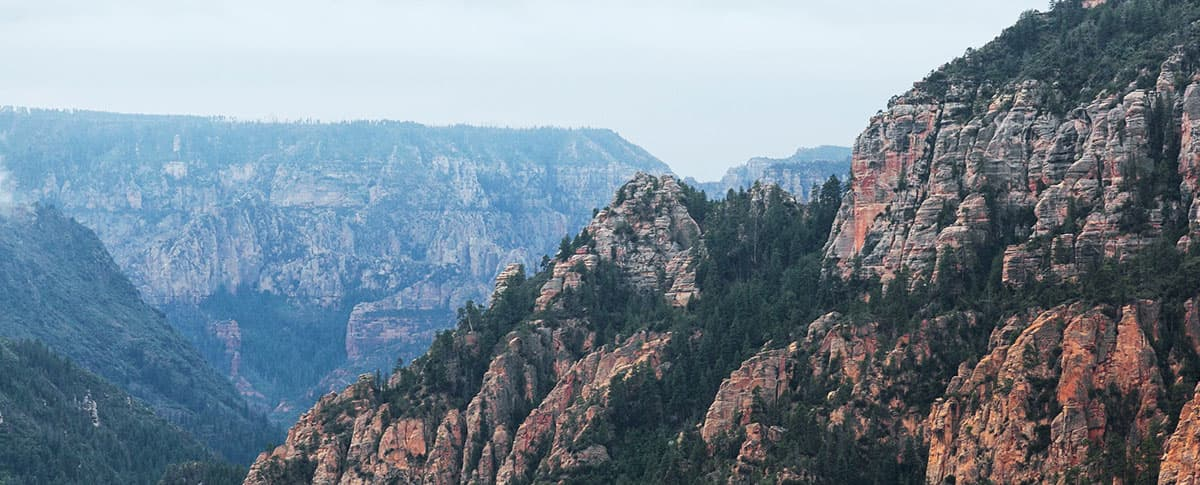
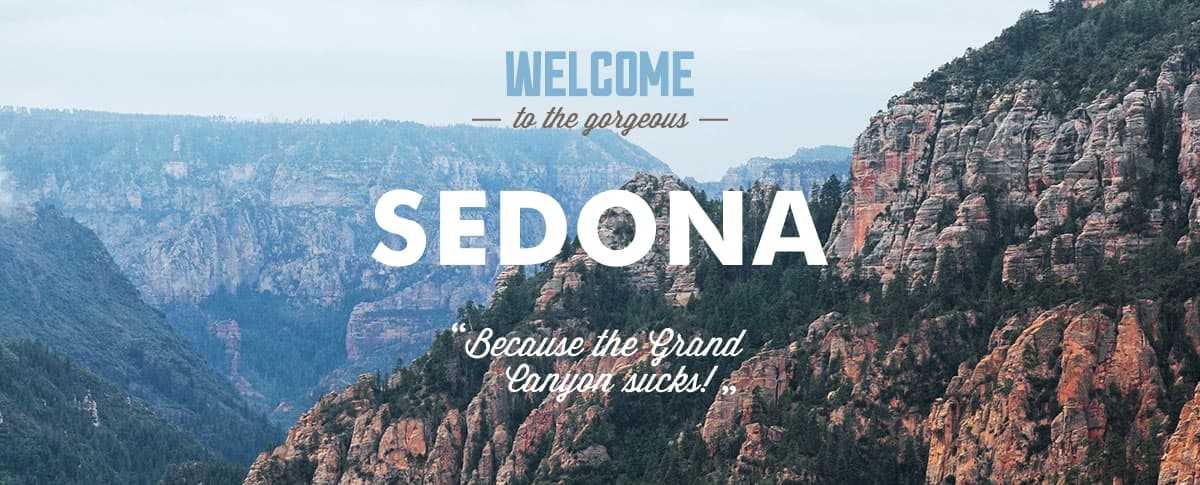
Прописаны стили блок Promo

Changed region(s): [[0.3083, 0.3711, 0.7092, 0.5567], [0.4008, 0.0928, 0.5858, 0.2784], [0.37, 0.6495, 0.6167, 0.8351]]

diff --git a/css/style.css b/css/style.css
@@ -43,26 +43,6 @@ body {
   flex-grow: 1;
 }
 
-.button {
-  font-family: inherit;
-  font-weight: 700;
-  font-size: 16px;
-  line-height: 20px;
-  text-transform: uppercase;
-  text-decoration: none;
-
-  color: #ffffff;
-  background-color: #83b3d3;
-}
-
-.button__color {
-  background-color: #756257;
-}
-
-.button__size {
-  font-size: 20px;
-}
-
 /* Header */
 .header-container {
   max-width: 1060px;
@@ -130,6 +110,15 @@ body {
 
 /* Main */
 
+.main-promo {
+  min-height: 485px;
+
+  background-color: #83b3d3;
+  background-image: url("../images/background/promo.jpg");
+  background-repeat: no-repeat;
+  object-fit: cover;
+}
+
 .page-header {
   color: #ffffff;
   background-color: #83b3d3;
@@ -168,6 +157,28 @@ body {
   line-height: 26px;
 }
 
+/* Button */
+
+.button {
+  font-family: inherit;
+  font-weight: 700;
+  font-size: 16px;
+  line-height: 20px;
+  text-transform: uppercase;
+  text-decoration: none;
+
+  color: #ffffff;
+  background-color: #83b3d3;
+}
+
+.button__color {
+  background-color: #756257;
+}
+
+.button__size {
+  font-size: 20px;
+}
+
 /* Forms */
 
 .newsletter__input {
@@ -204,6 +215,11 @@ body {
   color: #000000;
 
   text-decoration: none;
+}
+
+.card-rate {
+  font-size: 16px;
+  text-transform: uppercase;
 }
 
 /* Pagination */

diff --git a/index.html b/index.html
@@ -47,10 +47,10 @@
   </header>
 <!-- Основное содержимое страницы -->
   <main class="main">
-    <div class="main__promo">
+    <div class="main-promo">
       <h1 class="visually-hidden">Туристический город Седона</h1>
     </div>
-    
+
     <section class="features">
       <h2 class="visually-hidden">Преимущества Седоны</h2>
 
